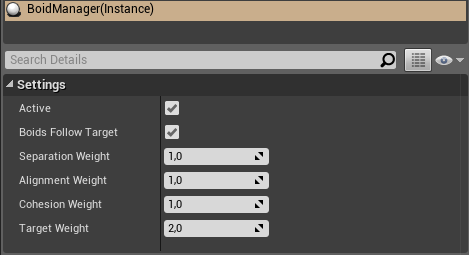
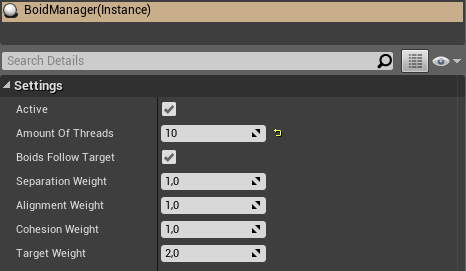
updated readme

Changed region(s): [[0.0, 0.0, 1.0, 1.0]]

diff --git a/README.md b/README.md
@@ -1,6 +1,6 @@
 # UE4Boids
 
-This is a simple boid implementation based on http://www.red3d.com/cwr/boids/. During the update phase the forward vector of all boids are being adjusted. Afterwards they're moved according to the new vector.
+This is a simple, multithreaded boid implementation based on http://www.red3d.com/cwr/boids/. During the update phase the forward vector of all boids are being adjusted and moved accordingly.
 
 Written in UE4.23.1, StarterContent is required.
 
@@ -10,15 +10,21 @@ Written in UE4.23.1, StarterContent is required.
 Implementation of a single Boid.
 
 #### Settings
-* **ForwardSpeed** Speed at which the boid is moving
+<img src="/Images/Boid.png" width="300">
+
+* **Amount of Boids to Observe** Max amount of boids to take into account for next calculation
+* **Forward Speed** Speed at which the boid is moving
+* **Turn Speed** Speed at which the boid is turning
+* **Close Boid Distance Cut Off** Max distance for another boid to this boid to be taken into account for next calculation
 
 ### BoidManager
-Manages all boids available in the scene. Ticks and calls the boids updated and move functions.
+Manages all boids available in the scene. Ticks and calls the boids move functions. Creates BoidCalculationWorker and assigns them their boids.
 
 #### Settings
 <img src="/Images/BoidManager.png" width="300">
 
 * **Active** Should boids be updated
+* **Amount Of Threads** The amount of threads to create and use for calculating positional updates (BoidCalculationWorker)
 * **Boids Follow Target** Do boids try to reach the BoidTarget or are free to roam
 * **Separation Weight** Weight of Separation, see http://www.red3d.com/cwr/boids/
 * **Alignment Weight** Weight of Alignment, see http://www.red3d.com/cwr/boids/
@@ -34,8 +40,10 @@ Spawns boids according to its settings on BeginPlay.
 #### Settings
 <img src="/Images/BoidSpawner.png" width="300">
 
-* **Active** Should spawn boids
+* **Active** Should spawn boids (boids can be added to the scene at any time)
 * **Class to Spawn** Boid implementation class
 * **Spawn Count** Amount of boids to spawn
 * **Spawn Radius** Radius around the spawners location to spawn boids at
 
+### BoidCalculationWorker
+Calculates the rotation for its assigned boids. Boids are assigned via the BoidManager. FRunnable implementation.
